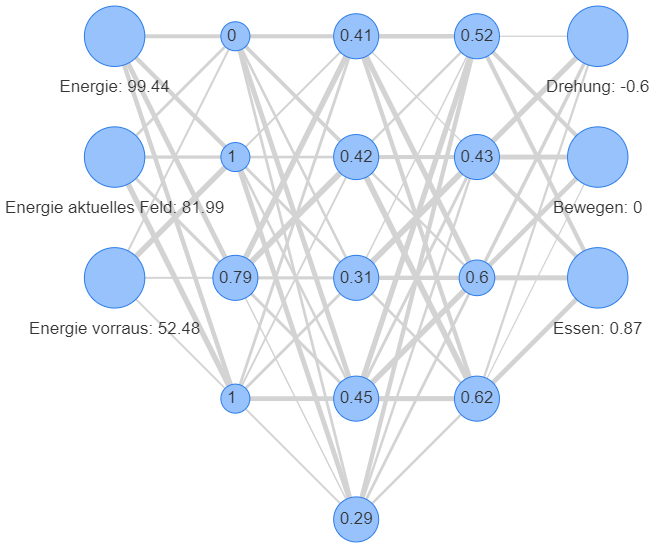
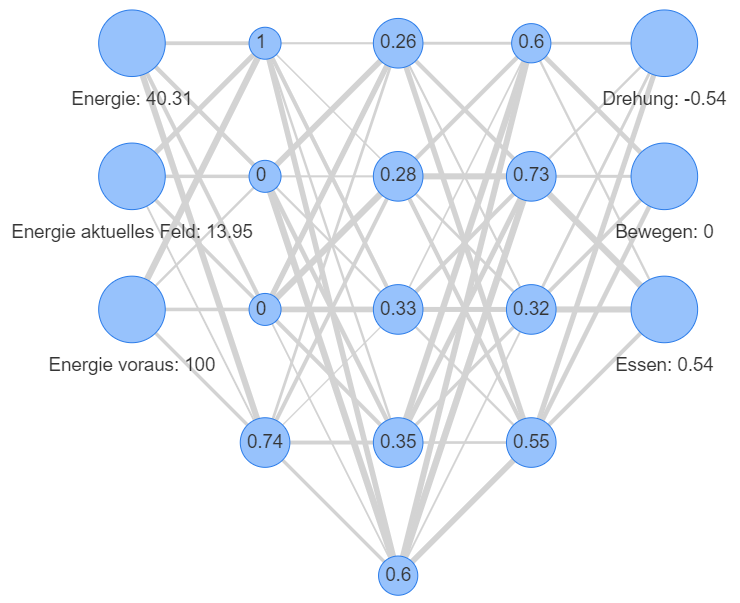
* Fixed typos

diff --git a/client/evosim-frontend/lang/de.js b/client/evosim-frontend/lang/de.js
@@ -33,7 +33,7 @@ export default {
       direction: 'Richtung',
       energy: 'Energie',
       energyCurrentTile: 'Energie aktuelles Feld',
-      energyTileAhead: 'Energie vorraus',
+      energyTileAhead: 'Energie voraus',
     },
     outputNodeLabels: {
       rotation: 'Drehung',
@@ -56,7 +56,7 @@ export default {
     population: 'Population',
     generation: 'Generation',
     initTick: 'Erstellt mit Tick',
-    ticksAlive: 'Ticks am leben',
+    ticksAlive: 'Ticks am Leben',
     algorithm: 'Algorithmus',
     activation: 'Aktivierung',
   },
@@ -118,36 +118,36 @@ export default {
       subheading1: 'Visualisierung des Szenarios',
       image1: 'Beispielbild Szenario',
       text1:
-        'Auf der linken Hälfte ist live die visuelle Darstellung des Szenarios. Hier ist die Karte mit den Gras- / Wasserfeldern und den Figuren zu sehen. Die Wasserfelder sind hierbei blau dargestellt und die Grasfelder, je nach Energie, braun bis grün. Je mehr Energie ein Grasfeld besitzt desto grüner ist es.',
+        'Auf der linken Hälfte ist live die visuelle Darstellung des Szenarios. Hier ist die Karte mit den Gras- / Wasserfeldern und den Figuren zu sehen. Die Wasserfelder sind hierbei blau dargestellt und die Grasfelder, je nach Energie, braun bis grün. Je mehr Energie ein Grasfeld besitzt, desto grüner ist es.',
       image2: 'Farbverlauf von 0 Energie zu 100 Energie',
       text2:
-        'Die Figuren werden als farbige Punkte dargestellt. Jede Population besitzt hierbei eine eigene Farbe. So kann zu einer Figur die zugehörige Population direkt erkannt werden. Zudem besitzt jede Figur einen Richtungsindikator. Dieser gibt an, in welche Richtung die Figur schaut und von welchem Feld die Energie voraus wahrgenommen wird. Abhängig von der Energie der Figur wird auch die Farbe angezeigt: Je kräftiger die Farbe einer Figur, desto mehr Energie besitzt diese. Besitzt eine Figur keine Energie mehr, ist also tot, verschwindet diese komplett von der Karte.',
+        'Die Figuren werden als farbige Punkte dargestellt. Jede Population besitzt hierbei eine eigene Farbe. So kann die Population, zu der eine Figur gehört, direkt erkannt werden. Zudem besitzt jede Figur einen Richtungsindikator, der angibt, in welche Richtung die Figur schaut und von welchem Feld voraus die Energie wahrgenommen wird. Abhängig von der Energie der Figur wird auch die Farbe angezeigt: Je kräftiger die Farbe einer Figur, desto mehr Energie besitzt diese. Hat eine Figur keine Energie mehr, ist also tot, verschwindet sie komplett von der Karte.',
       text3:
-        'Die Ansicht kann mittels Klicken und Ziehen verschoben werden und per Mausrad kann hinein- bzw. herausgezoomt werden. Einzelne Figuren können hier auch per Klick an- bzw. abgewählt werden.',
+        'Die Ansicht kann mittels Klicken und Ziehen verschoben werden und per Mausrad kann hinein- und herausgezoomt werden. Einzelne Figuren können hier per Klick an- bzw. abgewählt werden.',
       subheading2: 'Grafische Darstellung der Daten',
       image3: 'Beispielbild grafische Darstellung der Daten',
       text4:
-        'Auf der rechten Hälfte werden jegliche Daten der Simulation und deren historischen Verläufe angezeigt. Hier lässt sich die Ansicht noch weiter unterteilen in: Generationsdaten, Livedaten, Darstellung des künstlichen neuronalen Netzes, Details und die \'besten\' Figuren:',
+        'Auf der rechten Hälfte werden Daten der Simulation und deren historischen Verläufe angezeigt. Hier lässt sich die Ansicht noch weiter unterteilen in: Generationsdaten, Livedaten, Darstellung des künstlichen neuronalen Netzes, Details und die \'besten\' Figuren:',
       subheading3: 'Darstellung der Generationsdaten',
       image4: 'Beispielbild Darstellung der Generationsdaten',
       text5:
-        'Links oben sind Statistiken über die Generationen aufbereitet, um den historischen Verlauf von Generationen nachverfolgen zu können. So kann dort die durchschnittliche Lebenszeit, maximale Lebenszeit und die durchschnittliche Energie der letzten 25 Generationen einer jeden Population verglichen werden. So ist ersichtlich, wie die unterschiedlichen Populationen sich von Generation zu Generation verändern und ob beispielsweise eine Population mit jeder Generation länger lebt.',
+        'Links oben sind Statistiken über die Generationen aufbereitet, um den historischen Verlauf von Generationen nachverfolgen zu können. So kann dort die durchschnittliche Lebenszeit, die maximale Lebenszeit und die durchschnittliche Energie der letzten 25 Generationen jeder Population verglichen werden. So ist ersichtlich, wie die unterschiedlichen Populationen sich von Generation zu Generation verändern und ob beispielsweise eine Population mit jeder Generation länger lebt.',
       subheading4: 'Darstellung der Livedaten',
       image5: 'Beispielbild Darstellung der Livedaten',
       text6:
-        'Rechts oben sind die Livedaten aufbereitet und es kann direkt verfolgt werden, wie viele Figuren bei einer Population noch leben, was die aktuelle durchschnittliche Lebenszeit/Energie und Generation einer jeden Population ist. Hier ist erkennbar, wie sich die Populationen im aktuellen Augenblick verhalten und agieren.',
+        'Rechts oben sind die Livedaten aufbereitet und es kann direkt verfolgt werden, wie viele Figuren bei einer Population noch leben, was die aktuelle durchschnittliche Lebenszeit/Energie und Generation jeder Population ist. Hier ist erkennbar, wie sich die Populationen im aktuellen Augenblick verhalten und agieren.',
       subheading5: 'Darstellung des künstlichen neuronalen Netzes',
       image6: 'Beispielbild Darstellung des künstlichen neuronalen Netzes',
       text7:
-        'Hat man eine Figur ausgewählt wird in der Mitte live ihr künstliches neuronales Netz angezeigt. Hierbei sind ganz links die Sinne der Figur als Knoten dargestellt (Aktuelle Energie, Energie des aktuellen Feldes und die Energie des Feldes vor der Figur) und ganz rechts die möglichen Aktionen der Figur (Drehen, Bewegen, Essen). Zwischen diesen fest vorgegebenen Knoten befinden sich dann je nach Architektur des Netzes verschiedene Zwischenknoten und Verbindungen, welche die Eingabeinformationen dann nach rechts zu den Aktionen weitertragen bzw. manipulieren. Es kann hierbei auf jeden Knoten geklickt werden um die Gewichte der eingehenden und ausgehenden Verbindungen anzuzeigen. Je dicker die Verbindungslinie zwischen zwei Knoten, desto höher ist auch das aktuelle Gewicht dieser Verbindung. Innerhalb der Knoten wird deren aktueller Wert angezeigt. Hier kann live nachverfolgt werden, wenn eine Änderung der Sinne/Eingaben (z.B. ein Wasserfeld ist nun vor der Figur) direkt im künstlichen neuronalen Netz zu einer neuen Aktion führt.',
+        'Hat man eine Figur ausgewählt, wird in der Mitte live ihr künstliches neuronales Netz angezeigt. Hierbei sind ganz links die Sinne der Figur als Knoten dargestellt (aktuelle Energie der Figur, Energie des Feldes auf dem die Figur sich befindet und die Energie des Feldes auf das die Figur blickt) und ganz rechts die möglichen Aktionen der Figur (Drehen, Bewegen, Essen). Zwischen diesen fest vorgegebenen Knoten befinden sich je nach Architektur des Netzes verschiedene Zwischenknoten und Verbindungen, die die Eingabeinformationen nach rechts zu den Aktionen weitertragen bzw. manipulieren. Es kann hierbei auf jeden Knoten geklickt werden um die Gewichte der eingehenden und ausgehenden Verbindungen anzuzeigen. Je dicker die Verbindungslinie zwischen zwei Knoten, desto höher ist das aktuelle Gewicht dieser Verbindung. Innerhalb der Knoten wird deren aktueller Wert angezeigt. Hier kann live nachverfolgt werden, wenn eine Änderung der Sinne/Eingaben (z.B. wenn nun ein Wasserfeld vor der Figur ist) direkt im künstlichen neuronalen Netz zu einer neuen Aktion führt.',
       subheading6: 'Darstellung von Details',
       image7: 'Beispielbild Darstellung von Details',
       text8:
-        'Links unten sind Detaildaten in Textform ersichtlich. Eine kleine Beschreibung und die globalen Daten, wie Anzahl an Populationen, Anzahl an Ticks pro Sekunde, der aktuelle Tick der Simulation etc. sind hier zu finden. Falls eine Figur angewählt ist, sind auch deren Daten aufgelistet, wie zugehörige Population, Tick der Geburt oder aktuelle Lebenszeit.',
+        'Links unten sind Detaildaten in Textform ersichtlich. Eine Beschreibung und globale Daten, wie Anzahl der Populationen, Anzahl der Ticks pro Sekunde, der aktuelle Tick der Simulation etc. sind hier zu finden. Falls eine Figur angewählt ist, sind auch deren Daten aufgelistet, wie zugehörige Population, Tick der Geburt oder aktuelle Lebenszeit.',
       subheading7: 'Darstellung der \'besten\' Figuren',
       image8: "Beispielbild Darstellung der 'besten' Figuren",
       text9:
-        'Rechts unten ist ein Ranking der Figuren zu sehen. Hier kann live entnommen werden, welche die Figuren mit der längsten Lebenszeit sind, oder welche die Figur mit der längsten Lebenszeit pro Population ist. Hier können die aufgelisteten Figuren auch direkt angewählt werden.',
+        'Rechts unten ist ein Ranking der Figuren zu sehen. Hier kann live nachvollzogen werden, welche Figuren die längste Lebenszeit haben oder welche Figur die längste Lebenszeit pro Population hat. Hier können die aufgelisteten Figuren auch direkt angewählt werden.',
     },
     section4: {
       heading: 'Was ist der Nutzen?',
